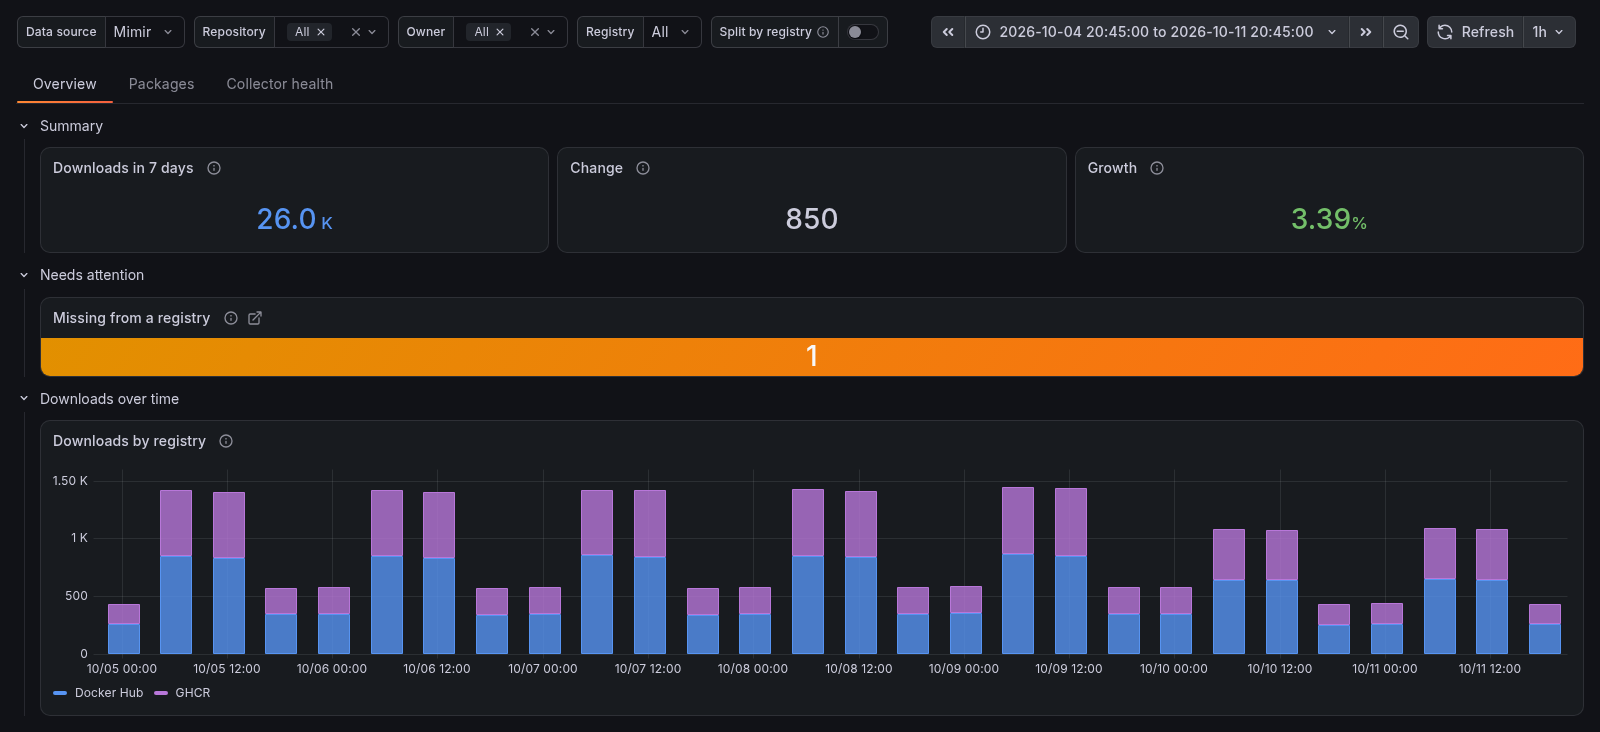
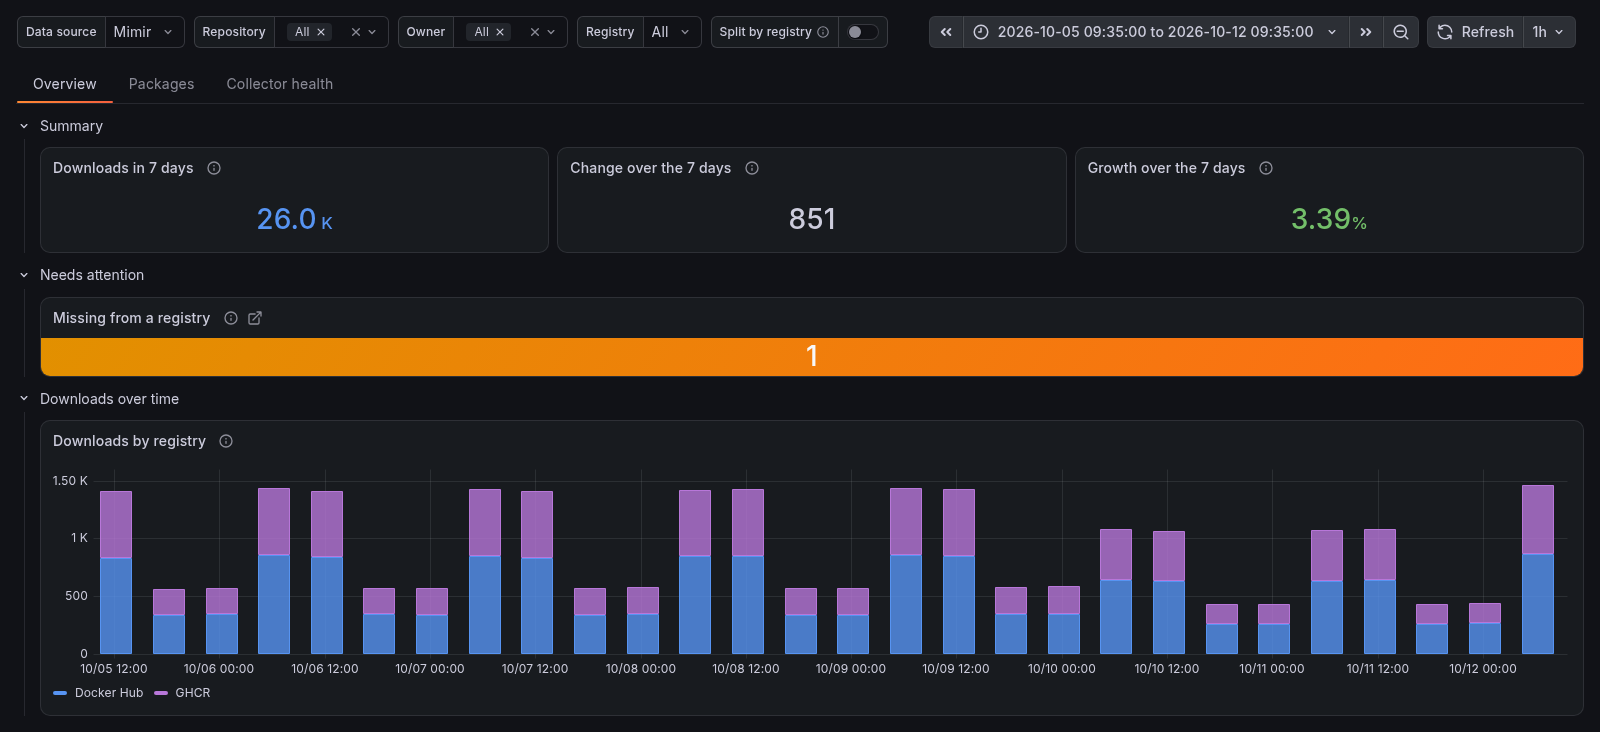
feat: name the range in the Change and Growth tile titles (#682)
## Release note

The Change and Growth tiles name the selected range, such as Change over the 30 days.

diff --git a/dashboard_test.go b/dashboard_test.go
@@ -3,7 +3,6 @@ package main
 import (
 	"cmp"
 	"encoding/json"
-	"maps"
 	"net/url"
 	"os"
 	"regexp"
@@ -1069,22 +1068,10 @@ func rangeWords(t *testing.T, doc map[string]any, row string) map[string]string 
 	return words
 }
 
-// namedByTheirRow are range figures titled without the length, because a tile in the same
-// row names it; each description names the span it compares with instead.
-var namedByTheirRow = map[string]string{
-	"Change": "Downloads beside it names the range",
-	"Growth": "Downloads beside it names the range",
-}
-
-// comparedWith is how a namedByTheirRow description names its span. Grafana renders a
-// description with each variable's value, so the words take the text format.
-const comparedWith = "compared with ${spanthe:text} ${spanunit:text} before"
-
 // A figure over the dashboard time range reads only with the range's length, so every
-// panel outside the charts whose query reads $__range names it, "Downloads in 30 days",
-// and reads "Downloads in the range" until the length is read or when its first read
-// fails; a tile in namedByTheirRow says "compared with the 30 days before" in its
-// description. Every word comes from the one answer of spanread, so no title mixes two
+// panel outside the charts whose query reads $__range names it, "Downloads in 30 days" or
+// "Change over the 30 days", and reads "... the range" until the length is read or when its
+// first read fails. Every word comes from the one answer of spanread, so no title mixes two
 // reads ("in 30 range") while they arrive. The lengths are spanread's query run at each
 // side of every unit's threshold and at decimal roundings.
 func TestDashboard_RangeFiguresNameTheirSpan(t *testing.T) {
@@ -1157,14 +1144,9 @@ func TestDashboard_RangeFiguresNameTheirSpan(t *testing.T) {
 		fill := strings.NewReplacer("${span}", words["span"], "${spanunit}", words["spanunit"], "${spanthe}", words["spanthe"])
 		return strings.Join(strings.Fields(fill.Replace(title)), " ")
 	}
-	renderText := func(text string, words map[string]string) string {
-		fill := strings.NewReplacer("${spanthe:text}", words["spanthe"], "${spanunit:text}", words["spanunit"])
-		return fill.Replace(text)
-	}
 	panels := loadPanels(t)
-	rows := rowsPlacing(t, doc)
 	specs := panelSpecs(t)
-	figures, exempt := 0, 0
+	figures := 0
 	for name, p := range panels {
 		title := p.Spec.Title
 		ranged := p.Spec.VizConfig.Group != "timeseries" && slices.ContainsFunc(queriesOf(specs, specs[name]), func(q any) bool {
@@ -1173,29 +1155,6 @@ func TestDashboard_RangeFiguresNameTheirSpan(t *testing.T) {
 		})
 		if ranged {
 			figures++
-		}
-		if _, ok := namedByTheirRow[title]; ok && ranged {
-			exempt++
-			beside := slices.ContainsFunc(slices.Collect(maps.Keys(rows)), func(other string) bool {
-				return other != name && rows[name] != nil && rows[other] != nil && rows[other]["title"] == rows[name]["title"] &&
-					strings.Contains(panels[other].Spec.Title, "${span}")
-			})
-			if !beside {
-				t.Errorf("%s %q names no length and no tile in its row %v does", name, title, rows[name]["title"])
-			}
-			if !strings.Contains(p.Spec.Description, comparedWith) {
-				t.Errorf("%s %q description does not say %q: %.120q", name, title, comparedWith, p.Spec.Description)
-			}
-			if got := renderText(comparedWith, none); got != "compared with the range before" {
-				t.Errorf("%s %q description reads %q before the length is read, want \"compared with the range before\"", name, title, got)
-			}
-			for i, l := range lengths {
-				if got, want := renderText(comparedWith, reads[i]), "compared with the "+l.want+" before"; got != want {
-					t.Errorf("%s %q description reads %q over %d s, want %q", name, title, got, l.rangeS, want)
-					break
-				}
-			}
-			continue
 		}
 		if !ranged && !strings.Contains(title, "${span") {
 			continue
@@ -1206,7 +1165,11 @@ func TestDashboard_RangeFiguresNameTheirSpan(t *testing.T) {
 		}
 		for i, l := range lengths {
 			named := render(title, reads[i])
-			if want := strings.Replace(fallback, "the range", l.want, 1); named != want {
+			length := l.want
+			if strings.Contains(title, "${spanthe}") {
+				length = "the " + l.want
+			}
+			if want := strings.Replace(fallback, "the range", length, 1); named != want {
 				t.Errorf("%s title %q reads %q over %d s, want %q", name, title, named, l.rangeS, want)
 				break
 			}
@@ -1214,9 +1177,6 @@ func TestDashboard_RangeFiguresNameTheirSpan(t *testing.T) {
 	}
 	if figures == 0 {
 		t.Error("no range figure found; the pattern no longer reads the dashboard")
-	}
-	if exempt != len(namedByTheirRow) {
-		t.Errorf("%d range figures are titled as in namedByTheirRow, want %d, one per entry", exempt, len(namedByTheirRow))
 	}
 }
 
@@ -1573,8 +1533,8 @@ func TestDashboard_ComputedPercentsNeverShowInfinityOrNaN(t *testing.T) {
 // summaryTiles are the Overview's always-visible figures, in their order on screen.
 var summaryTiles = []string{
 	"Downloads in ${span} ${spanunit}",
-	"Change",
-	"Growth",
+	"Change over ${spanthe} ${spanunit}",
+	"Growth over ${spanthe} ${spanunit}",
 }
 
 // tabletGridPx is the width an Overview auto grid fills on a 1024 px tablet, and

diff --git a/docs/monitoring.md b/docs/monitoring.md
@@ -44,7 +44,7 @@ registry-stats writes logfmt records to standard error, with UTC timestamps. Lev
 
 [`grafana-dashboard.json`](../grafana-dashboard.json) needs Grafana 13.2 or newer. It uses PromQL and needs only a Prometheus data source, with no plugin. It filters by registry, owner and repo, and adds Docker Hub and GHCR together per package until you turn on Split by registry. Its three tabs are Overview, Packages and Collector health, whose Job list scopes it to one scrape job. Every download figure covers the dashboard time range, except the all-time total that Not pulled, on the Packages tab, shows beside each image. A panel over the range names its length in the title, such as Downloads in 7 days, in days from 2 days, hours from 2 hours, minutes from 2 minutes and seconds below that, and reads "the range" while it loads and when the data source cannot answer as the dashboard opens. If the data source stops answering after a title has named a length, Grafana keeps that length until it answers again, while every panel shows the query error. A chart's bar counts a whole span that grows with the range, an hour on a day or less, 6 hours on a week, a day on 30 days and a week on 6 months, so the first bar can start before the range and the newest part of the range waits for its bar. A change compares it with the span of the same length just before it, and shows only once the counts reach back to the start of that earlier span.
 
-The Overview's summary is three tiles. Downloads names the range, such as Downloads in 30 days. Change is the difference in downloads compared with the span of the same length before it, the 30 days before on a 30-day range, and Growth is that change as a percent; each one's description names the span it compares with. Growth reads No earlier downloads when that span counted no downloads, which happens on ranges of a few hours at the default hourly check. Under the summary, a Needs attention row appears only while one of its tiles has something to show, one tile per line, and downloads by registry follow. A tile shows a problem that holds now and lasts, never a failure that has already recovered. Each tile's description names the shipped alert that reads the same signal, or states its own condition where no alert does:
+The Overview's summary is three tiles, each naming the range: Downloads in 30 days, Change over the 30 days and Growth over the 30 days on a 30-day range. Change is the difference in downloads compared with the span of the same length before the range, and Growth is that change as a percent. Growth reads No earlier downloads when that span counted no downloads, which happens on ranges of a few hours at the default hourly check. Under the summary, a Needs attention row appears only while one of its tiles has something to show, one tile per line, and downloads by registry follow. A tile shows a problem that holds now and lasts, never a failure that has already recovered. Each tile's description names the shipped alert that reads the same signal, or states its own condition where no alert does:
 
 | Tile | Shows when | Alert |
 | --- | --- | --- |
